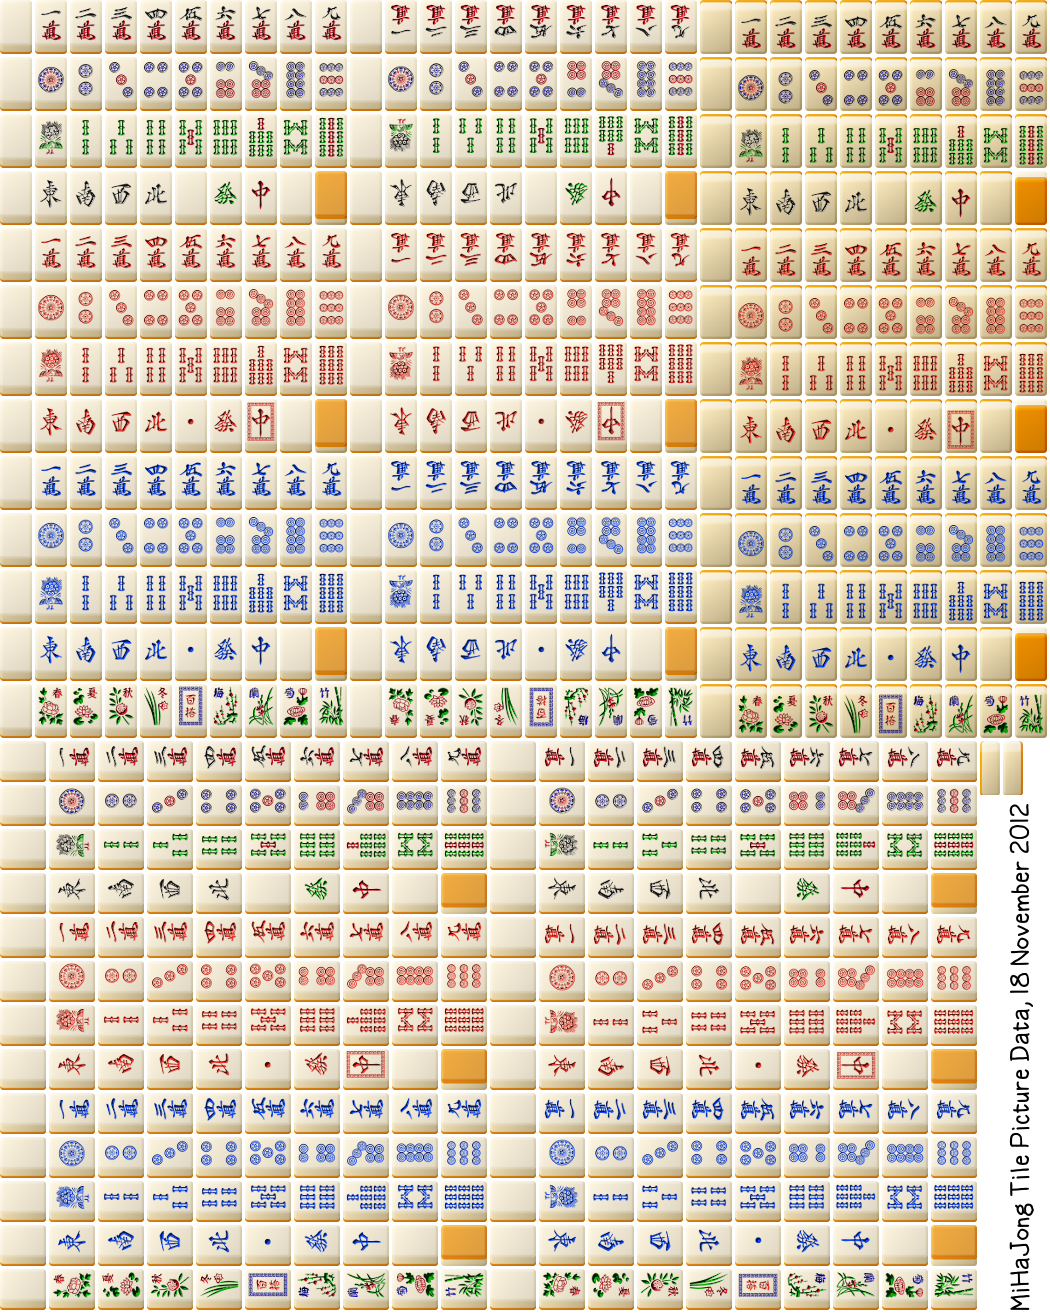
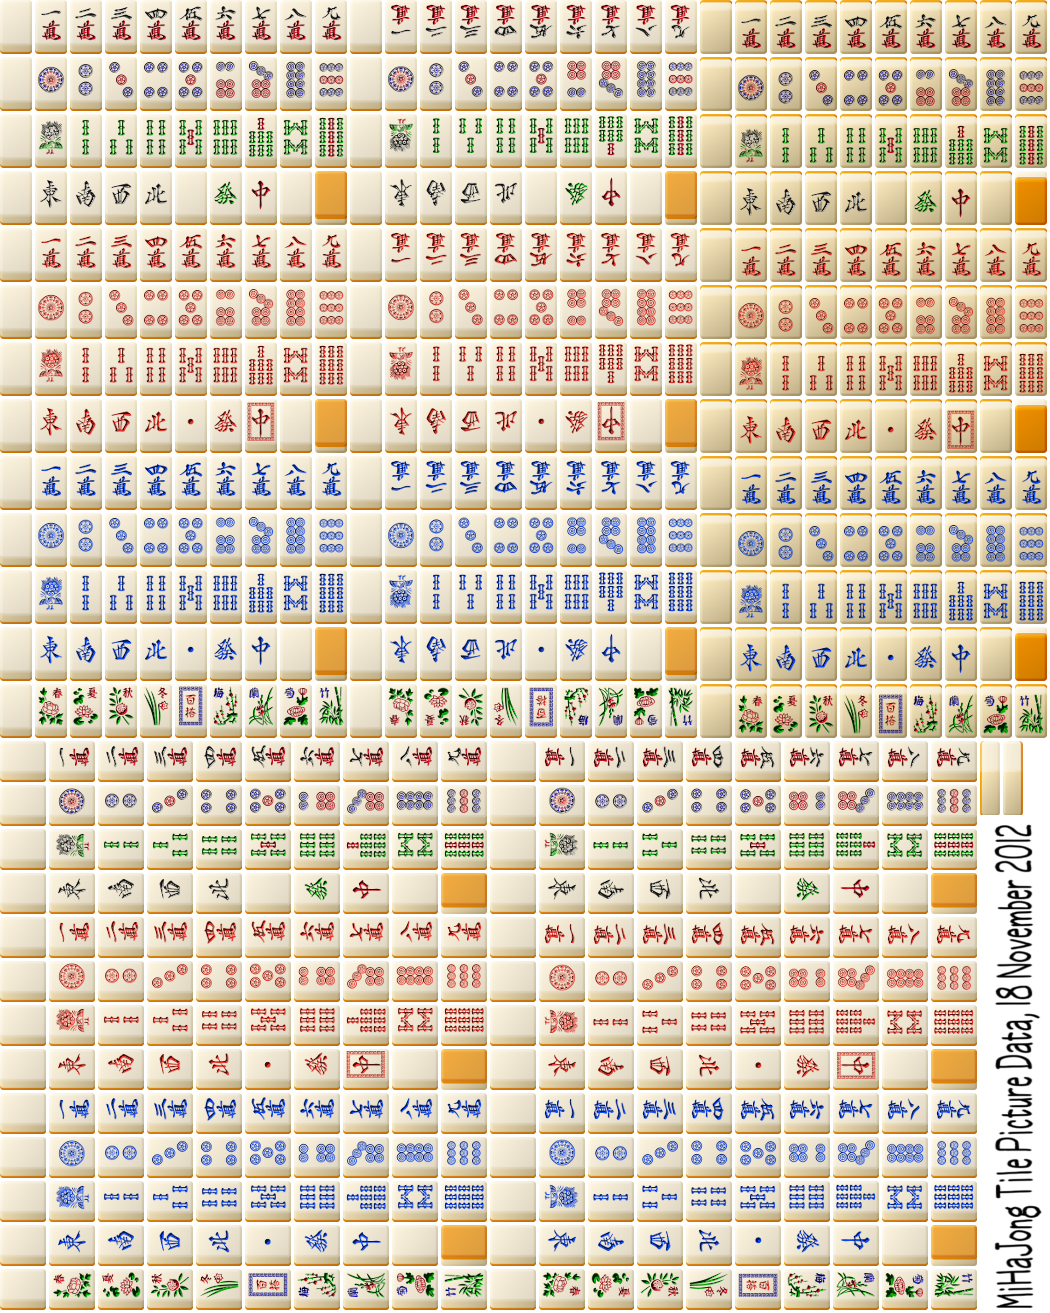
手牌表示調整

Changed region(s): [[0.9143, 0.5621, 1.0, 0.9992]]

diff --git a/graphic/showtile.h b/graphic/showtile.h
@@ -18,7 +18,7 @@ public:
 	static const unsigned int VertTileWidth  = 32;
 	static const unsigned int VertTileHeight = 54;
 	static const unsigned int SideTileWidth  = 20;
-	static const unsigned int SideTileHeight = VertTileHeight;
+	static const unsigned int SideTileHeight = 74;
 	static const unsigned int HoriTileWidth  = 46;
 	static const unsigned int HoriTileHeight = 41;
 	static const unsigned int TileCols = 10;
@@ -29,8 +29,10 @@ private:
 	LPDIRECT3DDEVICE9 myDevice;
 	LPDIRECT3DTEXTURE9 TileTexture;
 	std::vector<TileDescriptor*> mySprites;
+	void RenderTile(TileDescriptor* tile, RECT* rect, int CenterX, int CenterY);
 	void RenderVert(TileDescriptor* tile, RECT* rect);
 	void RenderHori(TileDescriptor* tile, RECT* rect);
+	void RenderSide(TileDescriptor* tile, RECT* rect);
 public:
 	void NewTile(unsigned int ID, tileCode tile, doraCol red, int x, int y, TileDirection direction, TileSide side);
 	void DelTile(unsigned int ID);
